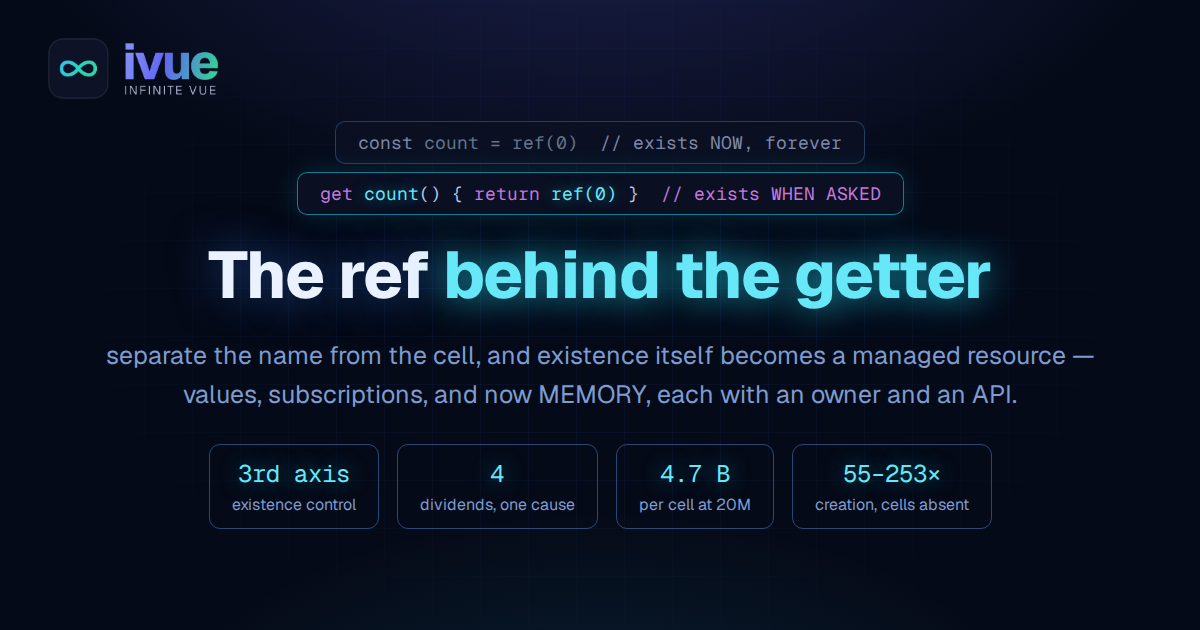
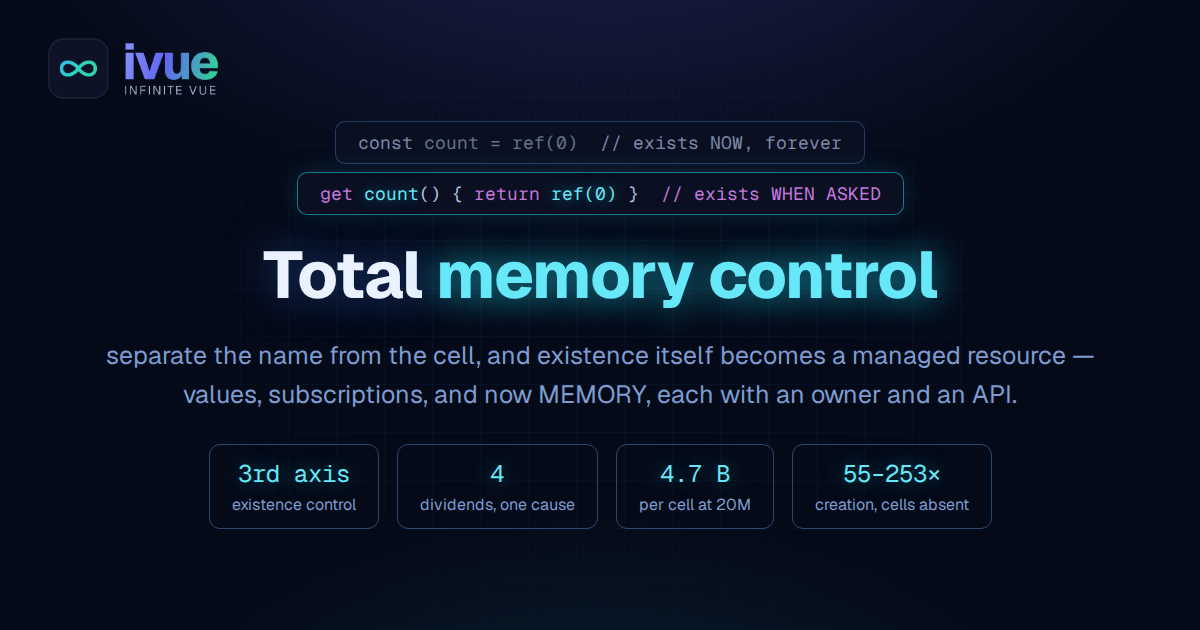
blog: retitle — Total memory control (the win, not the mechanism)

Changed region(s): [[0.1542, 0.3921, 0.8325, 0.4825]]

diff --git a/.claude/skills/blog-banner/banners/total-memory-control.html b/.claude/skills/blog-banner/banners/total-memory-control.html
@@ -94,7 +94,7 @@
       <div class="line"><span class="kw">const</span> count = ref(0)&nbsp;&nbsp;<span class="kw">// exists NOW, forever</span></div>
       <div class="line hot"><span class="kw">get</span> <span class="glowcode">count</span>() { <span class="kw">return</span> <span class="glowcode">ref(0)</span> }&nbsp;&nbsp;<span class="kw">// exists WHEN ASKED</span></div>
     </div>
-    <div class="title">The ref <span class="glow">behind the getter</span></div>
+    <div class="title">Total <span class="glow">memory control</span></div>
     <div class="sub">separate the name from the cell, and existence itself becomes a managed resource —<br/>values, subscriptions, and now MEMORY, each with an owner and an API.</div>
     <div class="stats">
       <div class="stat"><span class="n">3rd axis</span><span class="l">existence control</span></div>

diff --git a/docs_v2/blog/total-memory-control.md b/docs_v2/blog/total-memory-control.md
@@ -1,14 +1,14 @@
 ---
-title: 'The ref behind the getter'
+title: 'Total memory control'
 description: "In Vue, a ref exists the moment its line runs — name and storage are the same thing. Put the ref behind a getter and they separate: existence itself becomes a managed resource. One indirection, and memory has an API."
 tags: [memory, philosophy]
 relatedPosts: [twenty-million-cells, silence-without-forgetting, disposal-is-a-reset, one-kilobyte-feature, the-thinnest-possible-layer]
 date: 2026-08
 ---
 
-# The ref behind the getter
+# Total memory control
 
-![The ref behind the getter](/blog/total-memory-control.png)
+![Total memory control](/blog/total-memory-control.png)
 
 <BlogPostDate />
 
